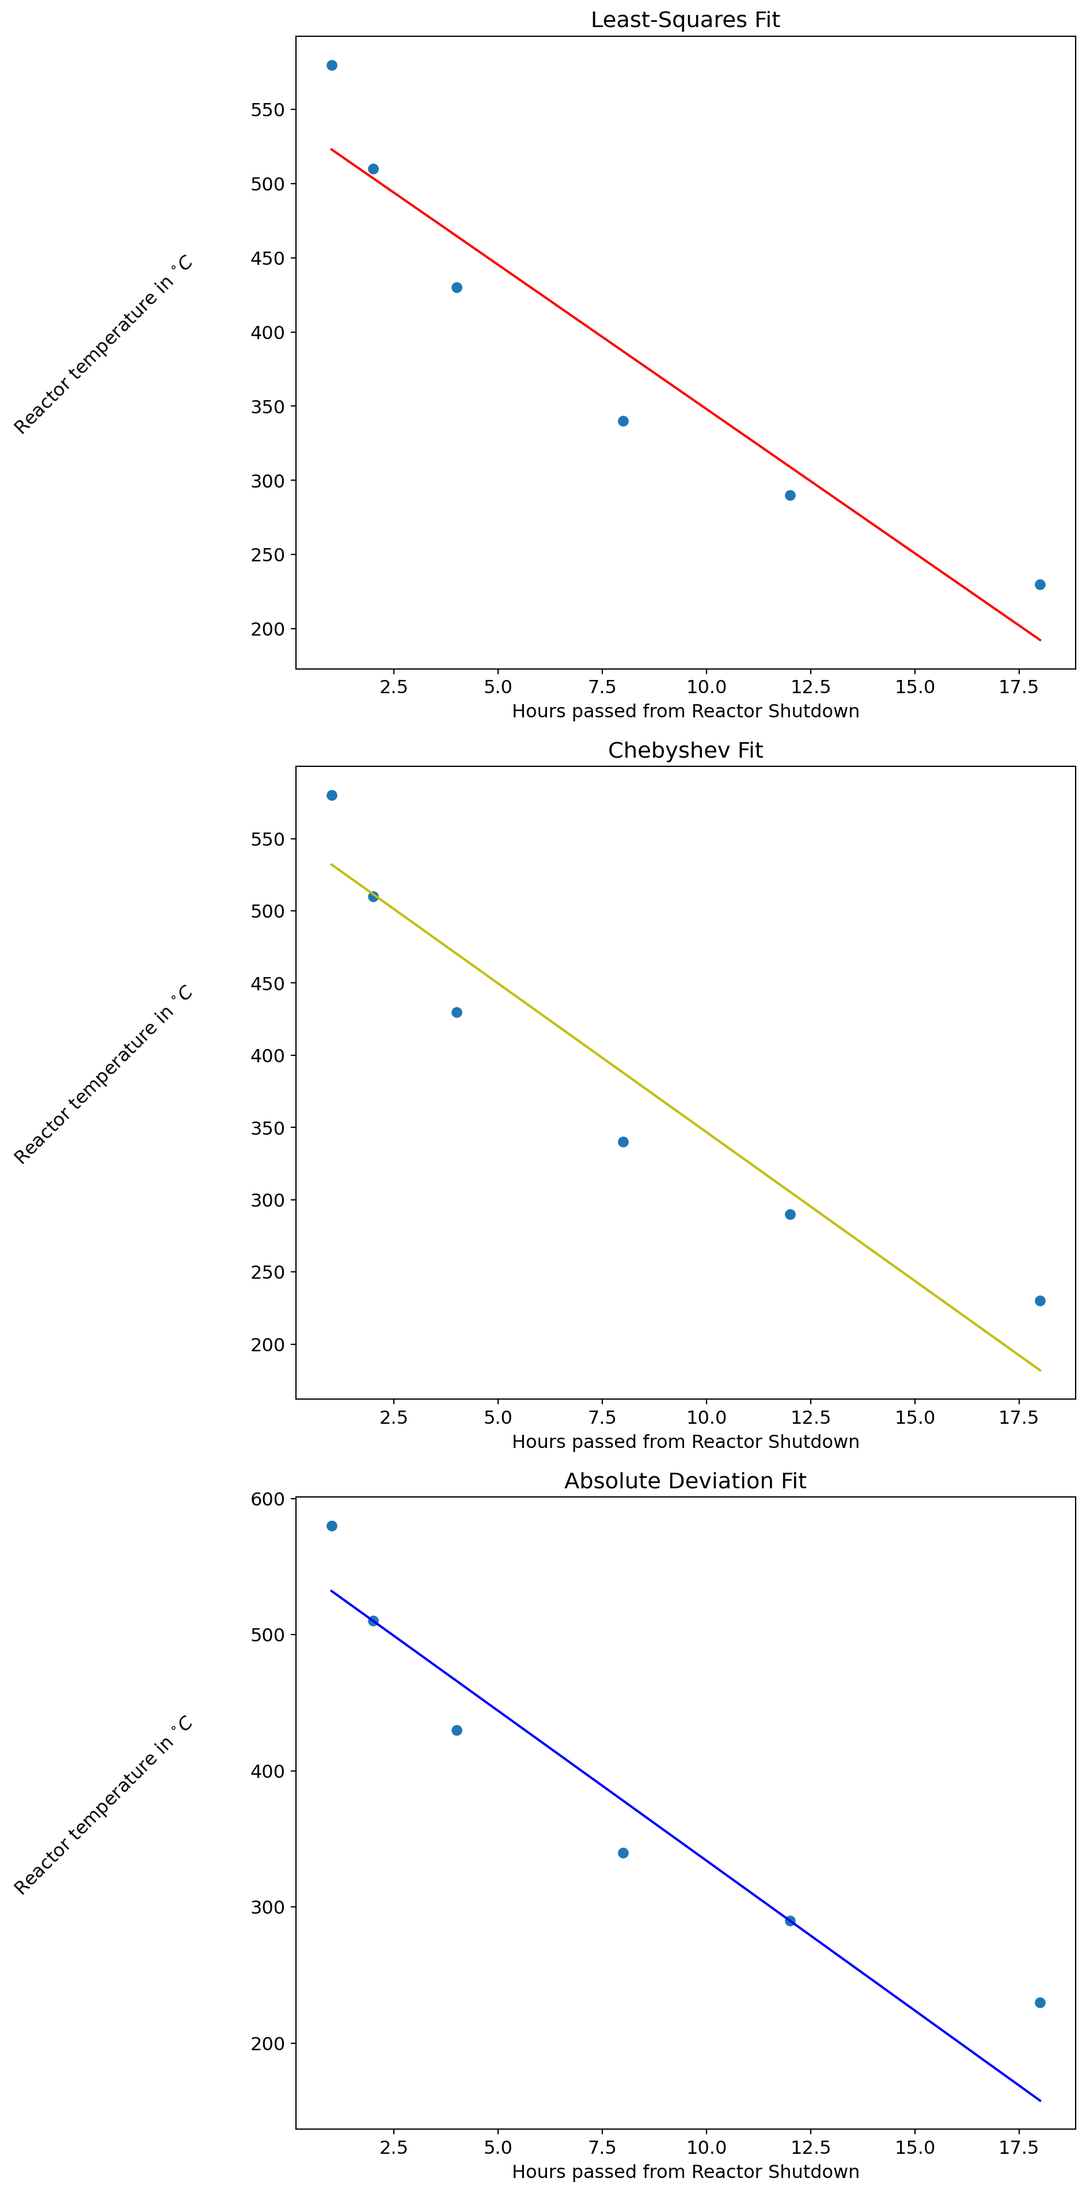
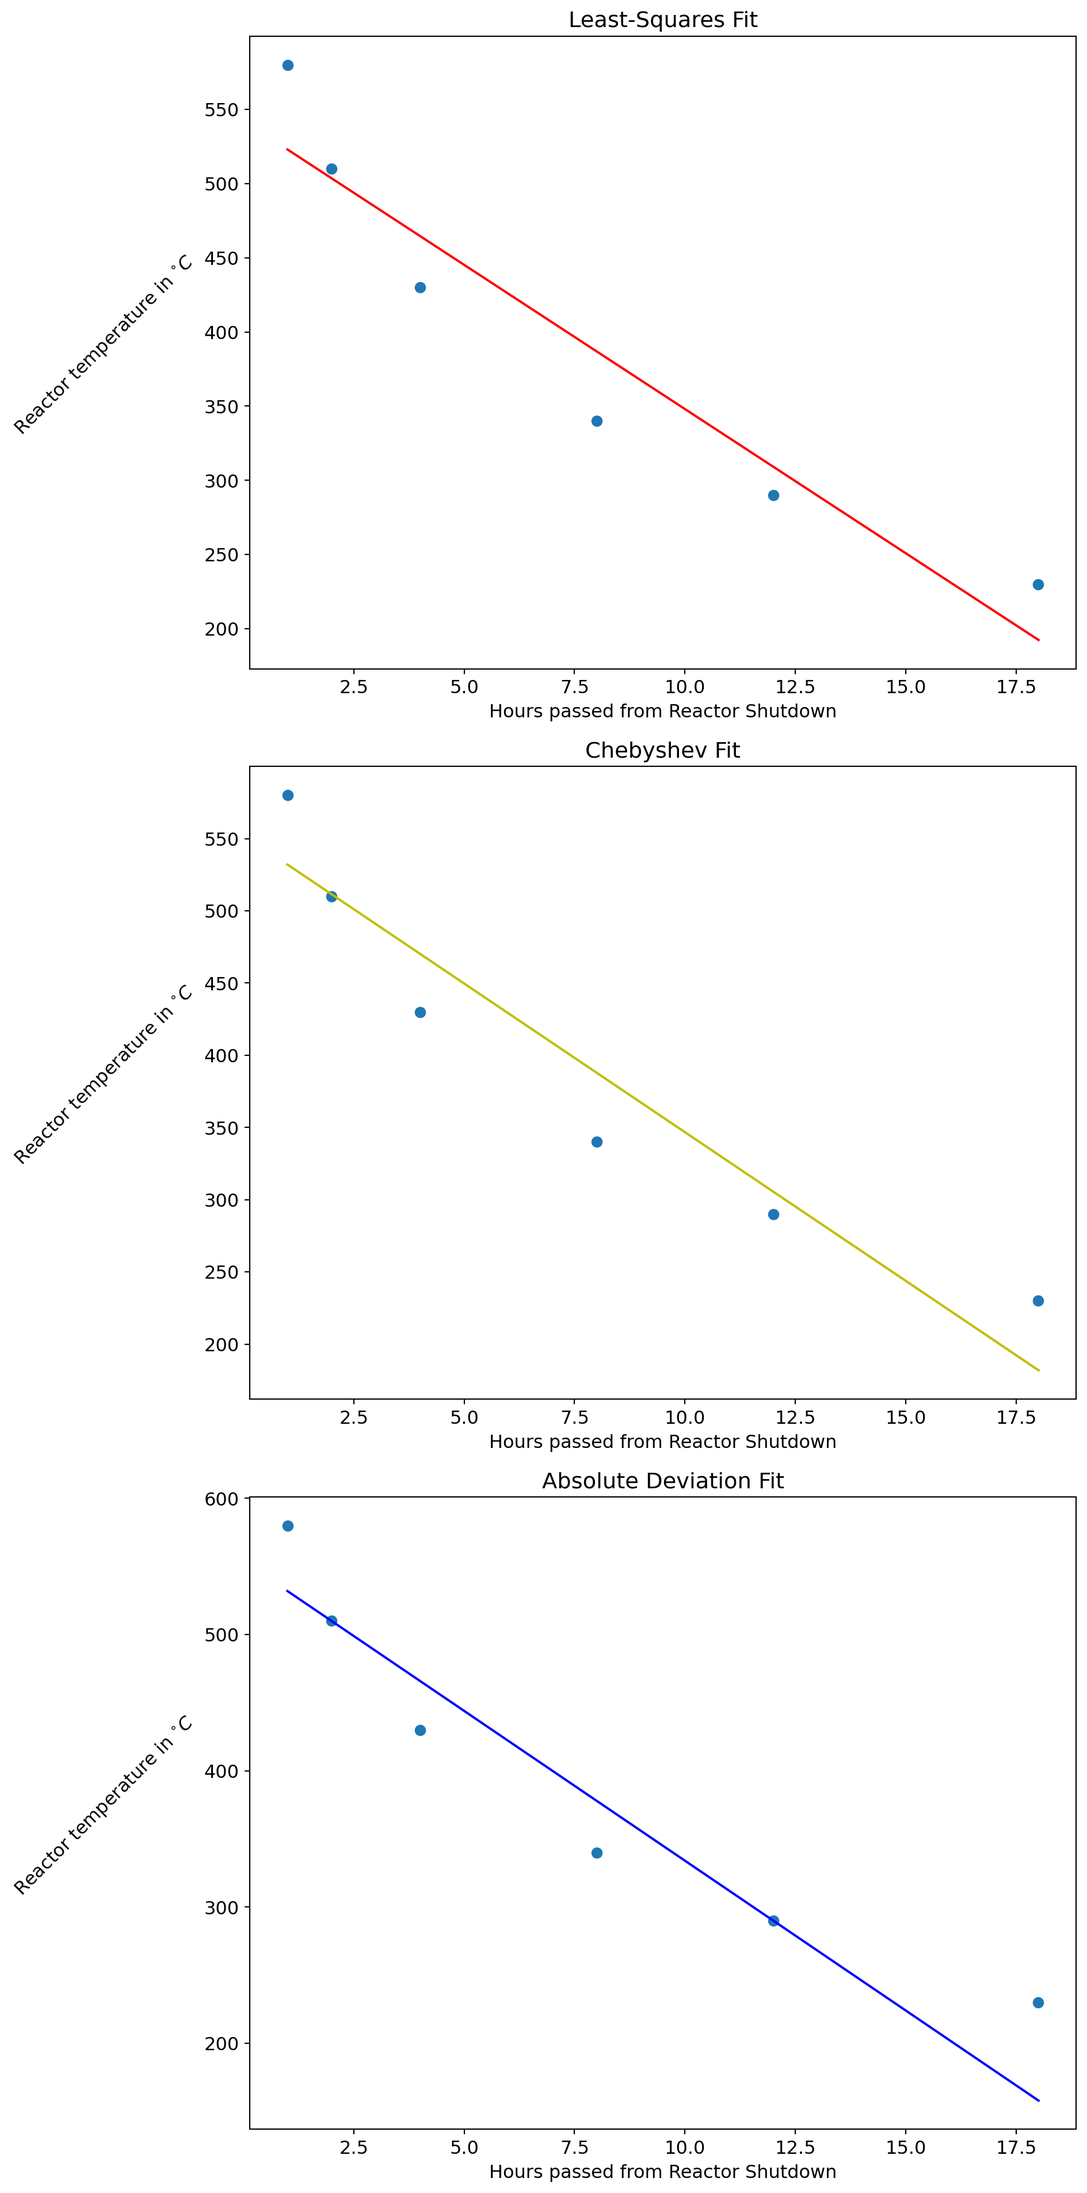
rat 13: guess array experiement on abs_dev_fit

diff --git a/docs/CH_3_PROB_7_example.html b/docs/CH_3_PROB_7_example.html
@@ -268,7 +268,7 @@ window.Quarto = {
 <li><p>We’ll use the <code>error_analyzer()</code> function from the <code>data_fitting.py</code> file (original work copyright 2026) to obtain the cumulative LS2 error. This file is available via <a href="https://github.com/GrandSlamVanDamme/math_283_U03_collab">public github repo</a>.</p></li>
 <li><p>We’ll plot the original data against the lines of fit for a visual comparison.</p></li>
 </ol>
-<div id="7f7f1a68" class="cell" data-execution_count="1">
+<div id="e5b54335" class="cell" data-execution_count="1">
 <details class="code-fold">
 <summary>Reveal Secrets</summary>
 <div class="code-copy-outer-scaffold"><div class="sourceCode cell-code" id="cb1"><pre class="sourceCode python code-with-copy"><code class="sourceCode python"><span id="cb1-1"><a href="#cb1-1" aria-hidden="true" tabindex="-1"></a> <span class="co"># import the packages we need:</span></span>
@@ -336,10 +336,13 @@ window.Quarto = {
 <span id="cb1-63"><a href="#cb1-63" aria-hidden="true" tabindex="-1"></a><span class="co">x**n.</span></span>
 <span id="cb1-64"><a href="#cb1-64" aria-hidden="true" tabindex="-1"></a><span class="co">'''</span></span></code></pre></div><button title="Copy to Clipboard" class="code-copy-button"><i class="bi"></i></button></div>
 </details>
+<div class="cell-output cell-output-stdout">
+<pre><code>Below are the optimizations for a quartic fit</code></pre>
+</div>
 <div class="cell-output cell-output-stderr">
-<pre><code>/var/folders/ds/63b_7b1n3wx7f9wg6r78c57w0000gn/T/ipykernel_95907/1147187601.py:49: UserWarning: No artists with labels found to put in legend.  Note that artists whose label start with an underscore are ignored when legend() is called with no argument.
+<pre><code>/var/folders/ds/63b_7b1n3wx7f9wg6r78c57w0000gn/T/ipykernel_97351/1147187601.py:49: UserWarning: No artists with labels found to put in legend.  Note that artists whose label start with an underscore are ignored when legend() is called with no argument.
   plt.legend()
-/var/folders/ds/63b_7b1n3wx7f9wg6r78c57w0000gn/T/ipykernel_95907/1147187601.py:55: UserWarning: No artists with labels found to put in legend.  Note that artists whose label start with an underscore are ignored when legend() is called with no argument.
+/var/folders/ds/63b_7b1n3wx7f9wg6r78c57w0000gn/T/ipykernel_97351/1147187601.py:55: UserWarning: No artists with labels found to put in legend.  Note that artists whose label start with an underscore are ignored when legend() is called with no argument.
   plt.legend()</code></pre>
 </div>
 <div class="cell-output cell-output-display" data-execution_count="1">
@@ -348,20 +351,27 @@ window.Quarto = {
 <div class="cell-output cell-output-display">
 <div>
 <figure class="figure">
-<p><img src="CH_3_PROB_7_example_files/figure-html/cell-2-output-3.png" width="781" height="434" class="figure-img"></p>
+<p><img src="CH_3_PROB_7_example_files/figure-html/cell-2-output-4.png" width="945" height="1905" class="figure-img"></p>
+</figure>
+</div>
+</div>
+<div class="cell-output cell-output-display">
+<div>
+<figure class="figure">
+<p><img src="CH_3_PROB_7_example_files/figure-html/cell-2-output-5.png" width="783" height="440" class="figure-img"></p>
 </figure>
 </div>
 </div>
 </div>
 <p>Here are our results.</p>
 <p>First, let’s look at the linear fit <span class="math inline">\(f(x)=c_1x+c_2\)</span>.</p>
-<div id="8ee46a49" class="cell" data-execution_count="2">
+<div id="2cebe3a7" class="cell" data-execution_count="2">
 <details class="code-fold">
 <summary>Reveal Secrets</summary>
-<div class="code-copy-outer-scaffold"><div class="sourceCode cell-code" id="cb4"><pre class="sourceCode python code-with-copy"><code class="sourceCode python"><span id="cb4-1"><a href="#cb4-1" aria-hidden="true" tabindex="-1"></a><span class="bu">print</span>(<span class="st">'RESULTS'</span>)</span>
-<span id="cb4-2"><a href="#cb4-2" aria-hidden="true" tabindex="-1"></a>get_coeffs(X, Y, <span class="dv">1</span>)</span>
-<span id="cb4-3"><a href="#cb4-3" aria-hidden="true" tabindex="-1"></a><span class="bu">print</span>()</span>
-<span id="cb4-4"><a href="#cb4-4" aria-hidden="true" tabindex="-1"></a><span class="bu">print</span>(<span class="ss">f"We found a least squares error of </span><span class="sc">{</span>leastsquerror(Y, F1)[<span class="op">-</span><span class="dv">1</span>]<span class="sc">}</span><span class="ss">"</span>)</span></code></pre></div><button title="Copy to Clipboard" class="code-copy-button"><i class="bi"></i></button></div>
+<div class="code-copy-outer-scaffold"><div class="sourceCode cell-code" id="cb5"><pre class="sourceCode python code-with-copy"><code class="sourceCode python"><span id="cb5-1"><a href="#cb5-1" aria-hidden="true" tabindex="-1"></a><span class="bu">print</span>(<span class="st">'RESULTS'</span>)</span>
+<span id="cb5-2"><a href="#cb5-2" aria-hidden="true" tabindex="-1"></a>get_coeffs(X, Y, <span class="dv">1</span>)</span>
+<span id="cb5-3"><a href="#cb5-3" aria-hidden="true" tabindex="-1"></a><span class="bu">print</span>()</span>
+<span id="cb5-4"><a href="#cb5-4" aria-hidden="true" tabindex="-1"></a><span class="bu">print</span>(<span class="ss">f"We found a least squares error of </span><span class="sc">{</span>leastsquerror(Y, F1)[<span class="op">-</span><span class="dv">1</span>]<span class="sc">}</span><span class="ss">"</span>)</span></code></pre></div><button title="Copy to Clipboard" class="code-copy-button"><i class="bi"></i></button></div>
 </details>
 <div class="cell-output cell-output-stdout">
 <pre><code>RESULTS
@@ -372,13 +382,13 @@ We found a least squares error of 2.7000000000000006</code></pre>
 </div>
 </div>
 <p>Now, let’s see if the quadratic fit <span class="math inline">\(f(x)=c_1x^2+c_2x+c_3\)</span> looks any better.</p>
-<div id="f7ae169d" class="cell" data-execution_count="3">
+<div id="d062f645" class="cell" data-execution_count="3">
 <details class="code-fold">
 <summary>Reveal Secrets</summary>
-<div class="code-copy-outer-scaffold"><div class="sourceCode cell-code" id="cb6"><pre class="sourceCode python code-with-copy"><code class="sourceCode python"><span id="cb6-1"><a href="#cb6-1" aria-hidden="true" tabindex="-1"></a><span class="bu">print</span>(<span class="st">'RESULTS'</span>)</span>
-<span id="cb6-2"><a href="#cb6-2" aria-hidden="true" tabindex="-1"></a>get_coeffs(X, Y, <span class="dv">2</span>)</span>
-<span id="cb6-3"><a href="#cb6-3" aria-hidden="true" tabindex="-1"></a><span class="bu">print</span>()</span>
-<span id="cb6-4"><a href="#cb6-4" aria-hidden="true" tabindex="-1"></a><span class="bu">print</span>(<span class="ss">f"We found a least squares error of </span><span class="sc">{</span>leastsquerror(Y, F2)[<span class="op">-</span><span class="dv">1</span>]<span class="sc">}</span><span class="ss">"</span>)</span></code></pre></div><button title="Copy to Clipboard" class="code-copy-button"><i class="bi"></i></button></div>
+<div class="code-copy-outer-scaffold"><div class="sourceCode cell-code" id="cb7"><pre class="sourceCode python code-with-copy"><code class="sourceCode python"><span id="cb7-1"><a href="#cb7-1" aria-hidden="true" tabindex="-1"></a><span class="bu">print</span>(<span class="st">'RESULTS'</span>)</span>
+<span id="cb7-2"><a href="#cb7-2" aria-hidden="true" tabindex="-1"></a>get_coeffs(X, Y, <span class="dv">2</span>)</span>
+<span id="cb7-3"><a href="#cb7-3" aria-hidden="true" tabindex="-1"></a><span class="bu">print</span>()</span>
+<span id="cb7-4"><a href="#cb7-4" aria-hidden="true" tabindex="-1"></a><span class="bu">print</span>(<span class="ss">f"We found a least squares error of </span><span class="sc">{</span>leastsquerror(Y, F2)[<span class="op">-</span><span class="dv">1</span>]<span class="sc">}</span><span class="ss">"</span>)</span></code></pre></div><button title="Copy to Clipboard" class="code-copy-button"><i class="bi"></i></button></div>
 </details>
 <div class="cell-output cell-output-stdout">
 <pre><code>RESULTS

diff --git a/docs/U03_REPORT.html b/docs/U03_REPORT.html
@@ -289,7 +289,7 @@ window.Quarto = {
 </tr>
 </tbody>
 </table>
-<div id="063d50fa" class="cell" data-execution_count="1">
+<div id="c9936c41" class="cell" data-execution_count="1">
 <details class="code-fold">
 <summary>Reveal Secrets</summary>
 <div class="code-copy-outer-scaffold"><div class="sourceCode cell-code" id="cb1"><pre class="sourceCode python code-with-copy"><code class="sourceCode python"><span id="cb1-1"><a href="#cb1-1" aria-hidden="true" tabindex="-1"></a><span class="im">import</span> matplotlib.pyplot <span class="im">as</span> plt</span>
@@ -303,6 +303,16 @@ window.Quarto = {
 <span id="cb1-9"><a href="#cb1-9" aria-hidden="true" tabindex="-1"></a>X <span class="op">=</span> [<span class="dv">1</span>, <span class="dv">2</span>, <span class="dv">4</span>, <span class="dv">8</span>, <span class="dv">12</span>, <span class="dv">18</span>]</span>
 <span id="cb1-10"><a href="#cb1-10" aria-hidden="true" tabindex="-1"></a>Y <span class="op">=</span> [<span class="dv">580</span>, <span class="dv">510</span>, <span class="dv">430</span>, <span class="dv">340</span>, <span class="dv">290</span>, <span class="dv">230</span>]</span></code></pre></div><button title="Copy to Clipboard" class="code-copy-button"><i class="bi"></i></button></div>
 </details>
+<div class="cell-output cell-output-stdout">
+<pre><code>Below are the optimizations for a quartic fit</code></pre>
+</div>
+<div class="cell-output cell-output-display">
+<div>
+<figure class="figure">
+<p><img src="U03_REPORT_files/figure-html/cell-2-output-2.png" width="945" height="1905" class="figure-img"></p>
+</figure>
+</div>
+</div>
 </div>
 <p>“A large prediction error could affect cooling procedures and operational decisions.</p>
 <p>Your team has been asked to recommend the best model and fitting strategy.”</p>
@@ -335,10 +345,10 @@ window.Quarto = {
 <section id="linear" class="level2" data-number="6.1">
 <h2 data-number="6.1" class="anchored" data-anchor-id="linear"><span class="header-section-number">6.1</span> Linear:</h2>
 <p>Of form <span class="math inline">\(T(t)=c_1\cdot t + c_2\)</span>.</p>
-<div id="bed8b7a0" class="cell" data-execution_count="2">
+<div id="c43e9240" class="cell" data-execution_count="2">
 <details class="code-fold">
 <summary>Reveal Secrets</summary>
-<div class="code-copy-outer-scaffold"><div class="sourceCode cell-code" id="cb2"><pre class="sourceCode python code-with-copy"><code class="sourceCode python"><span id="cb2-1"><a href="#cb2-1" aria-hidden="true" tabindex="-1"></a>plotter(X, Y, <span class="dv">1</span>, <span class="st">"linear"</span>)</span></code></pre></div><button title="Copy to Clipboard" class="code-copy-button"><i class="bi"></i></button></div>
+<div class="code-copy-outer-scaffold"><div class="sourceCode cell-code" id="cb3"><pre class="sourceCode python code-with-copy"><code class="sourceCode python"><span id="cb3-1"><a href="#cb3-1" aria-hidden="true" tabindex="-1"></a>plotter(X, Y, <span class="st">"linear"</span>)</span></code></pre></div><button title="Copy to Clipboard" class="code-copy-button"><i class="bi"></i></button></div>
 </details>
 <div class="cell-output cell-output-stdout">
 <pre><code>Below are the optimizations for a linear fit</code></pre>
@@ -346,7 +356,7 @@ window.Quarto = {
 <div class="cell-output cell-output-display">
 <div>
 <figure class="figure">
-<p><img src="U03_REPORT_files/figure-html/cell-3-output-2.png" width="943" height="1905" class="figure-img"></p>
+<p><img src="U03_REPORT_files/figure-html/cell-3-output-2.png" width="945" height="1905" class="figure-img"></p>
 </figure>
 </div>
 </div>
@@ -374,8 +384,8 @@ import shinywidgets as shw
 
 app_ui = ui.page_fluid(
     ui.layout_columns(
-        ui.input_slider("n", "Degree of Polynomial Fit:", min=1, max=10, value = 2),
-        ui.output_plot("conspiracy")
+        ui.input_slider("n", "Degree of Polynomial Fit:", min=1, max=6, value = 2),
+        ui.output_plot("conspiracy", width = 10, height = 20), 
     )
 )
 def server(input: Inputs, output: Outputs, session: Session):
@@ -416,7 +426,7 @@ import IPython.display as ipd
 # import shinywidgets as shw
 
 func_types = ["linear", "polynomial", "power", "exponential"]
-poly_deg = 2
+poly_deg = 4
 """
 poly_deg = int(
     input("What degree of polynomial? Please give your answer as a numeral.")
@@ -463,7 +473,7 @@ def main(X, Y):
 
 def functionator(X, Y, func_type):
     """
-    Takes X, Y, n, and func type.
+    Takes X, Y, and func type.
     Modifies X and Y if needed
     returns X, Y, n, func_type as list
     """
@@ -771,7 +781,7 @@ def absdev_fit(X, Y, n):
     cost_func = np.sum(np.abs(Y - f))
     """
 
-    guess = (n + 1) * [1.0]
+    guess = (n + 1) * [0.0]
 
     result = sci.optimize.minimize(cost_func, guess, method="Nelder-Mead")
 
@@ -866,10 +876,12 @@ def coeff_table(X, Y, func_type):
     ipd.Markdown(table_du_fromage.to_markdown(index=False))
 
 
-def plotter(X, Y, n, func_type):
+def plotter(X, Y, func_type):
     """
     Plots different fit functions for a given data fit type (linear, poly, etc)
     """
+    X, Y, n, func_type = functionator(X, Y, func_type)[0:4]
+
     exes = fitter_happier_better(X, Y, n)[0]
     LS2 = fitter_happier_better(X, Y, n)[1]
     cheb = fitter_happier_better(X, Y, n)[2]
@@ -881,36 +893,34 @@ def plotter(X, Y, n, func_type):
     ylab = "Reactor temperature in $^{\\circ} C$"
 
     print(f"Below are the optimizations for a {func_type} fit")
-    plt.figure(figsize=(10, 20))
+    plt.figure(figsize=(10, 20), layout="tight")
 
     plt.rcParams["font.size"] = 12
     # plt.rcParams["axes.labelpad"] = 10
 
-    dist = 90
+    dist = 60
+    pointsize = 40
 
     ax1 = plt.subplot(3, 1, 1)
-    ax1.scatter(X, Y)
+    ax1.scatter(X, Y, s=pointsize)
     ax1.plot(exes, LS2, color="r")
     ax1.set_xlabel(xlab)
     ax1.set_ylabel(ylab, rotation=45, labelpad=(dist))
     ax1.set_title("Least-Squares Fit")
 
     ax2 = plt.subplot(3, 1, 2)
-    ax2.scatter(X, Y)
+    ax2.scatter(X, Y, s=pointsize)
     ax2.plot(exes, cheb, color="y")
     ax2.set_xlabel(xlab)
     ax2.set_ylabel(ylab, rotation=45, labelpad=(dist))
     ax2.set_title("Chebyshev Fit")
 
     ax3 = plt.subplot(3, 1, 3)
-    plt.scatter(X, Y)
+    plt.scatter(X, Y, s=pointsize)
     plt.plot(exes, absdev, color="b")
     ax3.set_xlabel(xlab)
     ax3.set_ylabel(ylab, rotation=45, labelpad=(dist))
     ax3.set_title("Absolute Deviation Fit")
-
-    plt.tight_layout()
-    plt.show()
 
 
 def temp_finder(X, Y):
@@ -950,7 +960,7 @@ if __name__ == "__main__":
     main(X, Y)
 # coeff_table(X, Y, "linear")
 # temp_finder(X, Y)
-
+plotter(X, Y, "polynomial")
 # %%
 
 # ---------------------------------------------------------

diff --git a/docs/brainstorm_2.html b/docs/brainstorm_2.html
@@ -204,7 +204,7 @@ pre > code.sourceCode > span > a:first-child::before { text-decoration: underlin
 <section id="step-5-analysis-and-optimization." class="level2" data-number="1.1">
 <h2 data-number="1.1" class="anchored" data-anchor-id="step-5-analysis-and-optimization."><span class="header-section-number">1.1</span> Step 5: Analysis and Optimization.</h2>
 <p>Writing a python function to perform analysis and optimization.</p>
-<div id="cb993eba" class="cell" data-execution_count="1">
+<div id="0040d26f" class="cell" data-execution_count="1">
 <details class="code-fold">
 <summary>Reveal Secrets</summary>
 <div class="code-copy-outer-scaffold"><div class="sourceCode cell-code" id="cb1"><pre class="sourceCode python code-with-copy"><code class="sourceCode python"><span id="cb1-1"><a href="#cb1-1" aria-hidden="true" tabindex="-1"></a><span class="im">import</span> numpy <span class="im">as</span> num</span>
@@ -217,6 +217,9 @@ pre > code.sourceCode > span > a:first-child::before { text-decoration: underlin
 <span id="cb1-8"><a href="#cb1-8" aria-hidden="true" tabindex="-1"></a></span>
 <span id="cb1-9"><a href="#cb1-9" aria-hidden="true" tabindex="-1"></a>main(X, Y)</span></code></pre></div><button title="Copy to Clipboard" class="code-copy-button"><i class="bi"></i></button></div>
 </details>
+<div class="cell-output cell-output-stdout">
+<pre><code>Below are the optimizations for a quartic fit</code></pre>
+</div>
 <div class="cell-output cell-output-display">
 <div>
 
@@ -241,30 +244,37 @@ pre > code.sourceCode > span > a:first-child::before { text-decoration: underlin
 <th rowspan="4" data-quarto-table-cell-role="th" data-valign="top">Fit Type</th>
 <th data-quarto-table-cell-role="th">linear</th>
 <td>8466.511988</td>
-<td>194.000050</td>
+<td>194.019750</td>
 <td>47.941176</td>
 </tr>
 <tr class="even">
 <th data-quarto-table-cell-role="th">polynomial</th>
-<td>1430.411411</td>
-<td>196.910783</td>
-<td>19.350649</td>
+<td>34.850596</td>
+<td>1712.187665</td>
+<td>3.093270</td>
 </tr>
 <tr class="odd">
 <th data-quarto-table-cell-role="th">power</th>
 <td>0.019926</td>
-<td>0.272959</td>
+<td>0.272951</td>
 <td>0.072193</td>
 </tr>
 <tr class="even">
 <th data-quarto-table-cell-role="th">exponential</th>
 <td>0.000719</td>
-<td>0.051744</td>
+<td>0.051751</td>
 <td>0.013584</td>
 </tr>
 </tbody>
 </table>
 
+</div>
+</div>
+<div class="cell-output cell-output-display">
+<div>
+<figure class="figure">
+<p><img src="brainstorm_2_files/figure-html/cell-2-output-3.png" width="945" height="1905" class="figure-img"></p>
+</figure>
 </div>
 </div>
 </div>

diff --git a/data_fitting.py b/data_fitting.py
@@ -25,7 +25,7 @@ import IPython.display as ipd
 # import shinywidgets as shw
 
 func_types = ["linear", "polynomial", "power", "exponential"]
-poly_deg = 2
+poly_deg = 4
 """
 poly_deg = int(
     input("What degree of polynomial? Please give your answer as a numeral.")
@@ -72,7 +72,7 @@ def main(X, Y):
 
 def functionator(X, Y, func_type):
     """
-    Takes X, Y, n, and func type.
+    Takes X, Y, and func type.
     Modifies X and Y if needed
     returns X, Y, n, func_type as list
     """
@@ -380,7 +380,7 @@ def absdev_fit(X, Y, n):
     cost_func = np.sum(np.abs(Y - f))
     """
 
-    guess = (n + 1) * [1.0]
+    guess = (n + 1) * [0.0]
 
     result = sci.optimize.minimize(cost_func, guess, method="Nelder-Mead")
 
@@ -475,10 +475,12 @@ def coeff_table(X, Y, func_type):
     ipd.Markdown(table_du_fromage.to_markdown(index=False))
 
 
-def plotter(X, Y, n, func_type):
+def plotter(X, Y, func_type):
     """
     Plots different fit functions for a given data fit type (linear, poly, etc)
     """
+    X, Y, n, func_type = functionator(X, Y, func_type)[0:4]
+
     exes = fitter_happier_better(X, Y, n)[0]
     LS2 = fitter_happier_better(X, Y, n)[1]
     cheb = fitter_happier_better(X, Y, n)[2]
@@ -490,36 +492,34 @@ def plotter(X, Y, n, func_type):
     ylab = "Reactor temperature in $^{\\circ} C$"
 
     print(f"Below are the optimizations for a {func_type} fit")
-    plt.figure(figsize=(10, 20))
+    plt.figure(figsize=(10, 20), layout="tight")
 
     plt.rcParams["font.size"] = 12
     # plt.rcParams["axes.labelpad"] = 10
 
-    dist = 90
+    dist = 60
+    pointsize = 40
 
     ax1 = plt.subplot(3, 1, 1)
-    ax1.scatter(X, Y)
+    ax1.scatter(X, Y, s=pointsize)
     ax1.plot(exes, LS2, color="r")
     ax1.set_xlabel(xlab)
     ax1.set_ylabel(ylab, rotation=45, labelpad=(dist))
     ax1.set_title("Least-Squares Fit")
 
     ax2 = plt.subplot(3, 1, 2)
-    ax2.scatter(X, Y)
+    ax2.scatter(X, Y, s=pointsize)
     ax2.plot(exes, cheb, color="y")
     ax2.set_xlabel(xlab)
     ax2.set_ylabel(ylab, rotation=45, labelpad=(dist))
     ax2.set_title("Chebyshev Fit")
 
     ax3 = plt.subplot(3, 1, 3)
-    plt.scatter(X, Y)
+    plt.scatter(X, Y, s=pointsize)
     plt.plot(exes, absdev, color="b")
     ax3.set_xlabel(xlab)
     ax3.set_ylabel(ylab, rotation=45, labelpad=(dist))
     ax3.set_title("Absolute Deviation Fit")
-
-    plt.tight_layout()
-    plt.show()
 
 
 def temp_finder(X, Y):
@@ -559,5 +559,5 @@ if __name__ == "__main__":
     main(X, Y)
 # coeff_table(X, Y, "linear")
 # temp_finder(X, Y)
-
+plotter(X, Y, "polynomial")
 # %%
